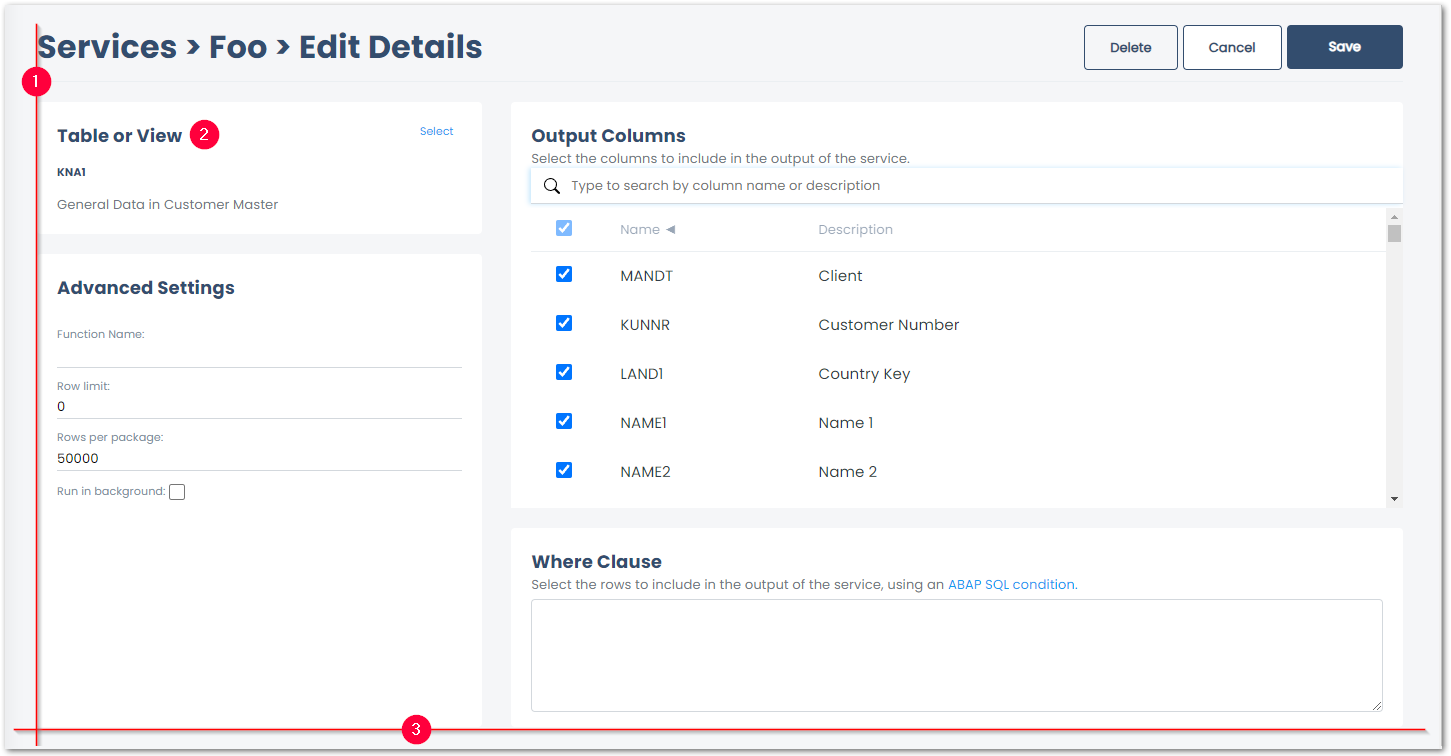
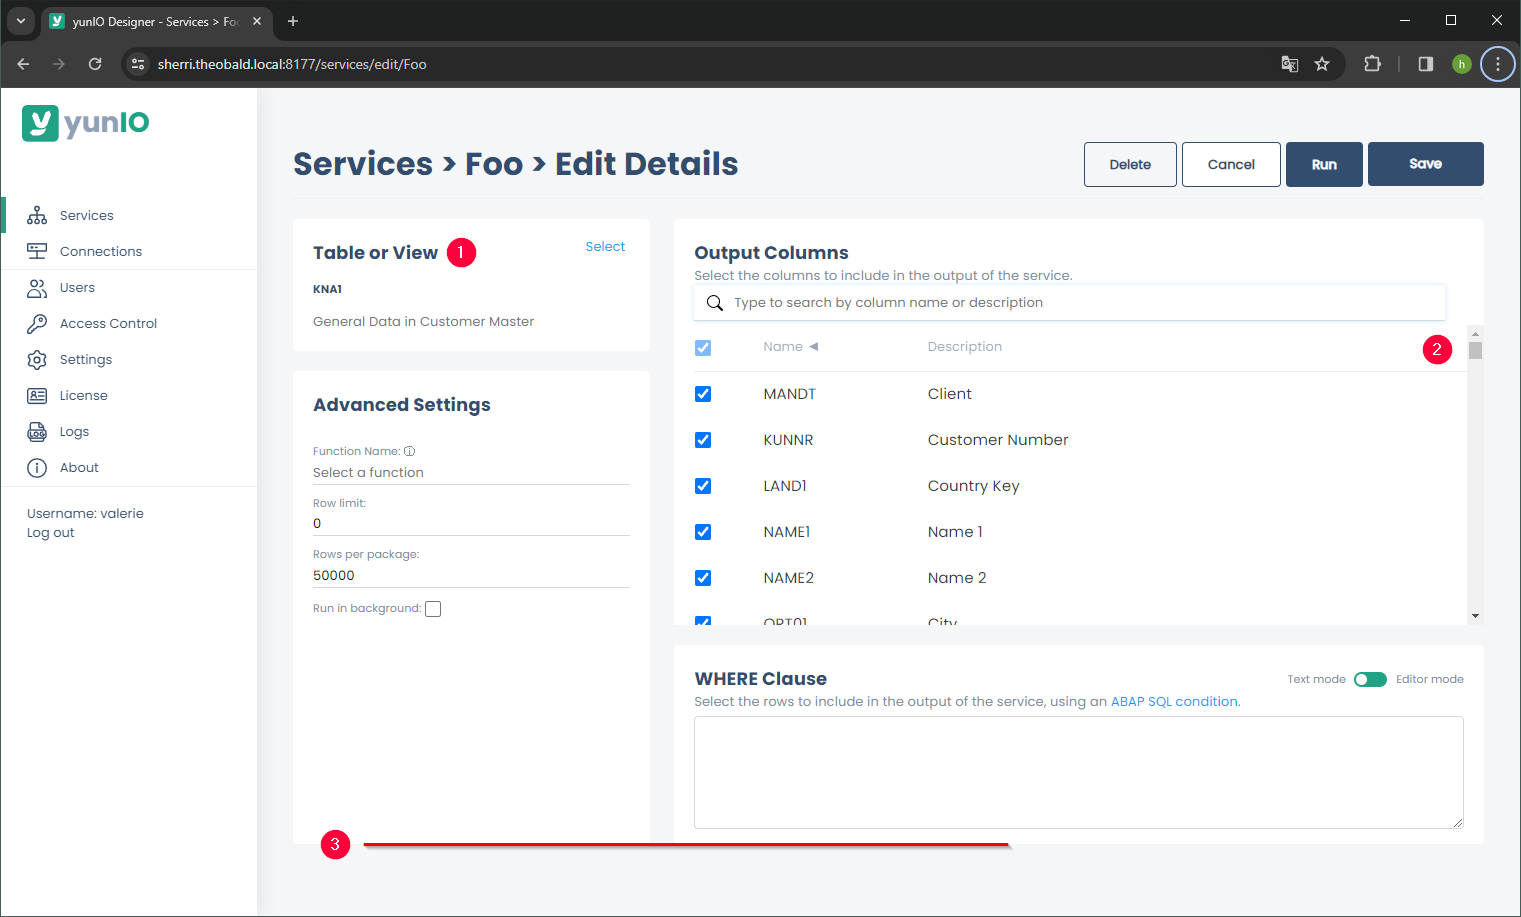
yunio style guide layout updated

diff --git a/content/_en/editorial-guide/ui-style-guide/layout.md b/content/_en/editorial-guide/ui-style-guide/layout.md
@@ -16,9 +16,9 @@ A good layout design considers factors like hierarchy, balance, spacing, and ali
 ### Containers
 
 The following rules apply to the menu containers:
-- containers are left-justified at the same horizontal point as the page title (1).<br>
+- every container includes an H3 headline (1).<br>
 ![Containers](/img/content/help_concept/yunIO/even-containers.png){:class="img-responsive"}
-- every container includes an H3 headline (2).
+- large tables that need scrolling have a fixed header (2).
 - the last containers on a page level evenly (3).
 - space between container and text (top and left) is `20px`, see definition in `main.css`.
 
